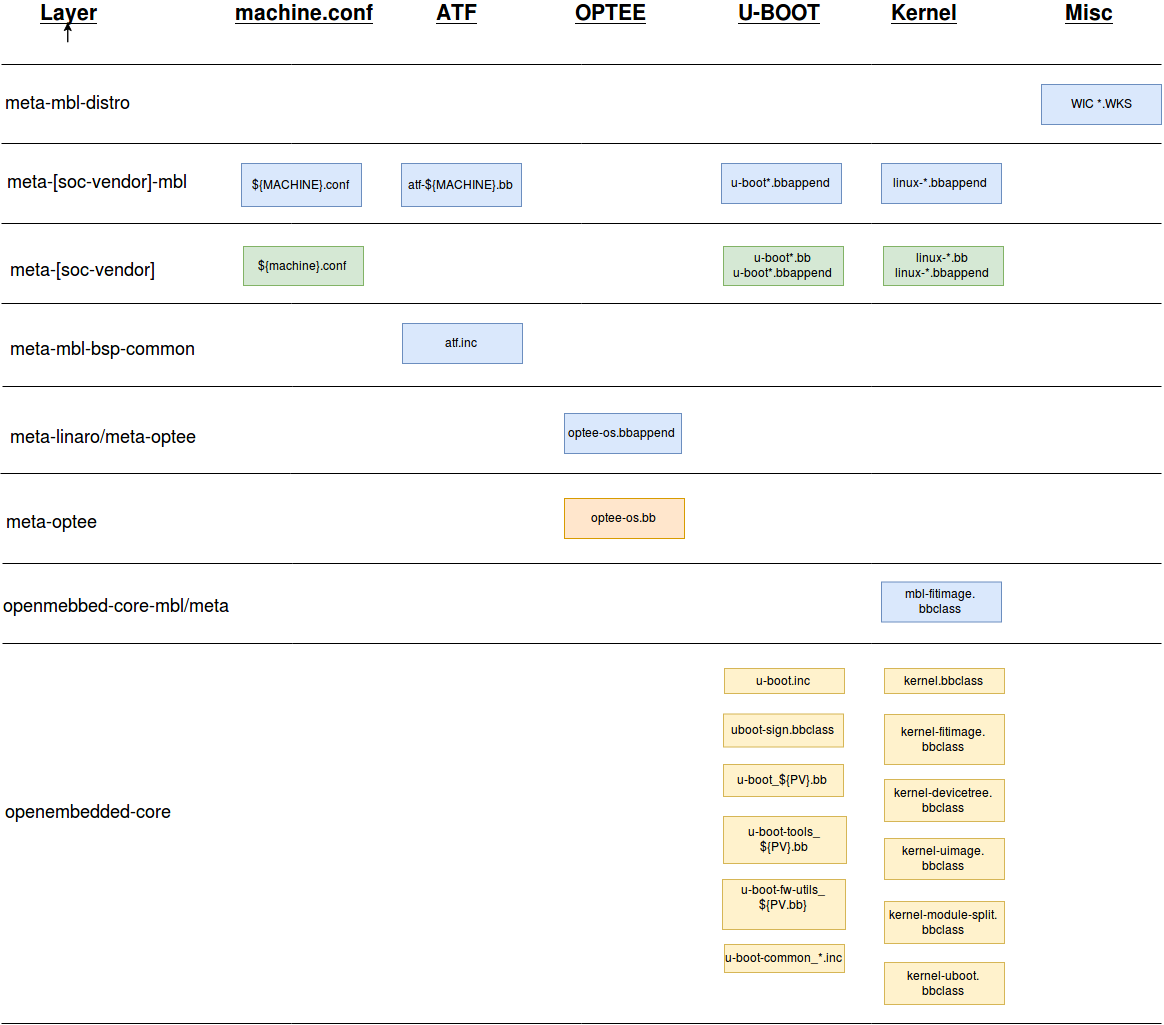
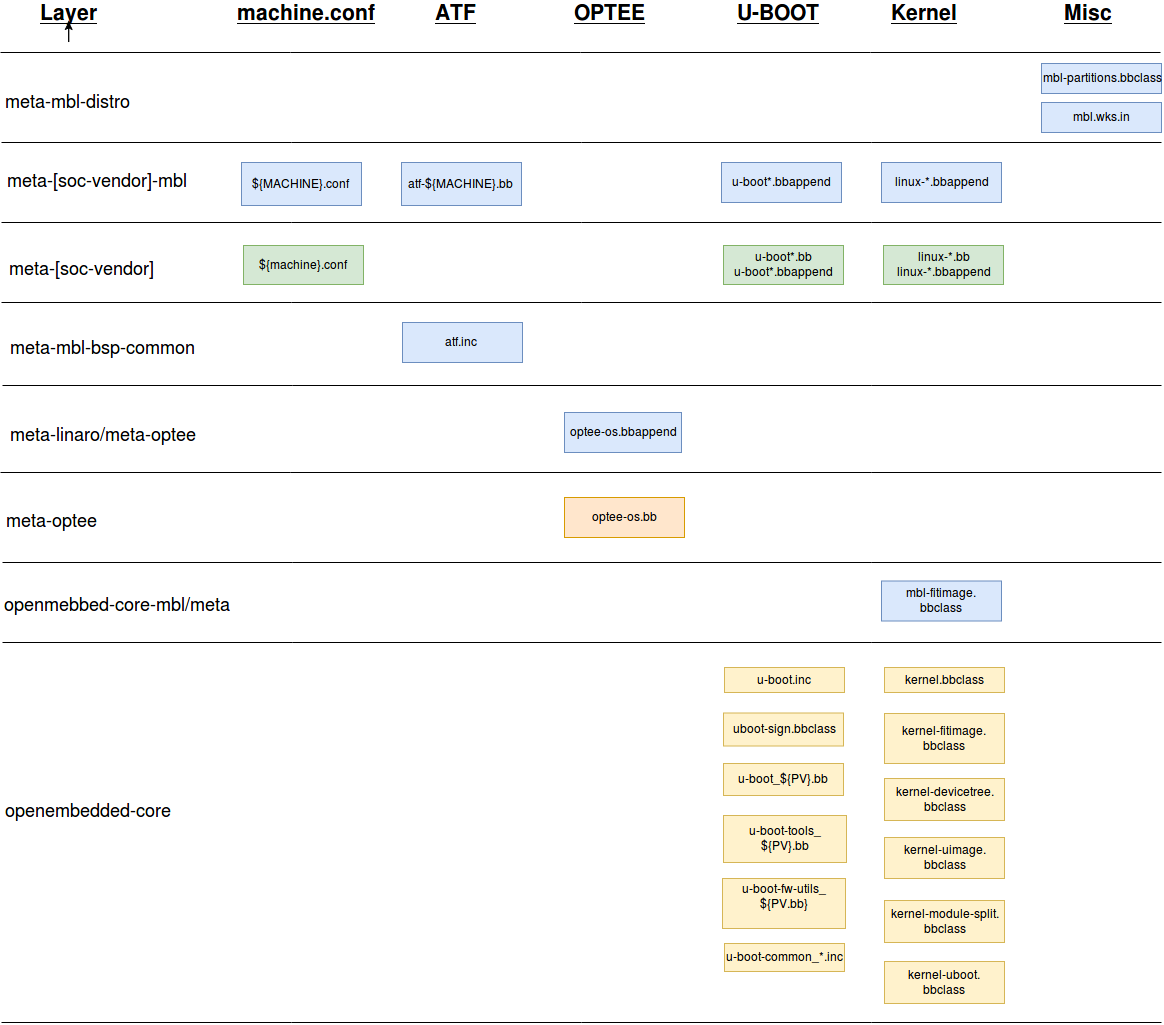
Update for partitioning/wks changes
Update docs for the following code changes:
* dm-verity code and partitions have been removed and we no longer plan
  to use it.
* We now have a single parameterized mbl.wks.in file rather than
  separate .wks files for each MACHINE.
* We have a class "mbl-partitions.bbclass" to process parameters used in
  the .wks file.
* We have added space in the partition table for a second bank of the
* BL3 FIP image.

Additionally:
* Partition_layout.md seemed confused about which parts were a
  description of current systems and which parts were about future
  plans. Attempt to clarify.
* Remove unused images from Porting/assets
* Remove duplication of information about partitions in
  bsp-porting-build.md.

diff --git a/Docs/refs/partition_layout.md b/Docs/refs/partition_layout.md
@@ -1,8 +1,103 @@
 # Partition layout
 
-## Design
+## General information
 
-The flash memory partition layout for MBL is driven by four high-level requirements:
+MBL images contain two types of "partition":
+1. Normal file system partitions that have entries in the partition table.
+2. "Raw" partitions that don't have file systems and don't have entries in the
+   partition table. A raw partition is used when it needs to be accessible to
+   an early bootloader that does not have file system drivers.
+
+The partition layout for every board includes at least the following partitions:
+
+| Label              | ro/rw | Type | Mount point      | Default Size | Contains |
+|--------------------|-------|------|------------------|--------------|----------|
+| boot               | ro    | vfat | /boot            | 48MiB        | Kernel, device tree and U-Boot boot script |
+| bootflags          | rw    | ext4 | /mnt/flags       | 20MiB        | Flags to determine which rootfs is active |
+| rootfs1            | rw    | ext4 | /                | 500MiB       | Root filesystem bank 1 |
+| rootfs2            | rw    | ext4 | /                | 500MiB       | Root filesystem bank 2 |
+| factory\_config    | rw    | ext4 | /config/factory  | 20MiB        | Factory configuration |
+| nfactory\_config1  | rw    | ext4 | /config/user     | 20MiB        | Non-factory config 1; user data configuration |
+| nfactory\_config2  | rw    | ext4 | /config/user     | 20MiB        | Unused at this time |
+| log                | rw    | ext4 | /var/log         | 128MiB       | Log files |
+| scratch            | rw    | ext4 | /scratch         | 500MiB       | Temporary files (such as downloaded firmware files) |
+| home               | rw    | ext4 | /home            | 450MiB       | User application storage |
+
+Images also contain partitions for bootloaders, but the details are board specific.
+
+Note that this partition layout does not match our future plans and will be changed in a future release.
+
+## Board specific information
+
+### Raspberry Pi 3
+
+Full partition layout:
+
+| Label/Name        | Size   | U-Boot iface dev:part | Linux device file | Notes    |
+|-------------------|--------|-----------------------|-------------------|----------|
+| BL3 FIP Image (1) | 4MiB   | -                     | -                 | Raw; FIP image containing TF-A BL3, OP-TEE and U-Boot |
+| BL3 FIP Image (2) | 4MiB   | -                     | -                 | Raw; unused at this time |
+| boot              | 48MiB  | mmc 0:1               | mmcblk0p1         | Primary  |
+| bootflags         | 20MiB  | mmc 0:2               | mmcblk0p2         | Primary  |
+| rootfs1           | 500MiB | mmc 0:3               | mmcblk0p3         | Primary  |
+| -                 | -      | mmc 0:4               | mmcblk0p4         | Extended |
+| rootfs2           | 500MiB | mmc 0:5               | mmcblk0p5         | Logical  |
+| factory\_config   | 20MiB  | mmc 0:6               | mmcblk0p6         | Logical  |
+| nfactory\_config1 | 20MiB  | mmc 0:7               | mmcblk0p7         | Logical  |
+| nfactory\_config2 | 20MiB  | mmc 0:8               | mmcblk0p8         | Logical  |
+| log               | 128MiB | mmc 0:9               | mmcblk0p9         | Logical  |
+| scratch           | 500MiB | mmc 0:10              | mmcblk0p10        | Logical  |
+| home              | 450MiB | mmc 0:11              | mmcblk0p11        | Logical  |
+
+### WaRP7 and PICO-PI with IMX7D
+
+Full partition layout:
+
+| Label/Name        | Size   | U-Boot iface dev:part | Linux device file | Notes       |
+|-------------------|--------|-----------------------|-------------------|-------------|
+| BL2               | 1023KiB| -                     | -                 | Raw; TF-A BL2 |
+| BL3 FIP Image (1) | 1024KiB| -                     | -                 | Raw; FIP image containing TF-A BL3, OP-TEE and U-Boot |
+| BL3 FIP Image (2) | 1024KiB| -                     | -                 | Raw; unused at this time |
+| boot              | 48MiB  | mmc 0:1               | mmcblk0p1         | Primary     |
+| bootflags         | 20MiB  | mmc 0:2               | mmcblk0p2         | Primary     |
+| rootfs1           | 500MiB | mmc 0:3               | mmcblk0p3         | Primary     |
+| -                 | -      | mmc 0:4               | mmcblk0p4         | Extended    |
+| rootfs2           | 500MiB | mmc 0:5               | mmcblk0p5         | Logical     |
+| factory\_config   | 20MiB  | mmc 0:6               | mmcblk0p6         | Logical     |
+| nfactory\_config1 | 20MiB  | mmc 0:7               | mmcblk0p7         | Logical     |
+| nfactory\_config2 | 20MiB  | mmc 0:8               | mmcblk0p8         | Logical     |
+| log               | 128MiB | mmc 0:9               | mmcblk0p9         | Logical     |
+| scratch           | 500MiB | mmc 0:10              | mmcblk0p10        | Logical     |
+| home              | 450MiB | mmc 0:11              | mmcblk0p11        | Logical     |
+
+### NXP 8M Mini EVK
+
+Full partition layout:
+
+| Label/Name        | Size   | U-Boot iface dev:part | Linux device file | Notes       |
+|-------------------|--------|-----------------------|-------------------|-------------|
+| Bootloaders       | 1024KiB| -                     | -                 | Raw; TF-A BL2, TF-A BL3, OP-TEE and U-Boot |
+| boot              | 48MiB  | mmc 0:1               | mmcblk1p1         | Primary     |
+| bootflags         | 20MiB  | mmc 0:2               | mmcblk1p2         | Primary     |
+| rootfs1           | 500MiB | mmc 0:3               | mmcblk1p3         | Primary     |
+| -                 | -      | mmc 0:4               | mmcblk1p4         | Extended    |
+| rootfs2           | 500MiB | mmc 0:5               | mmcblk1p5         | Logical     |
+| factory\_config   | 20MiB  | mmc 0:6               | mmcblk1p6         | Logical     |
+| nfactory\_config1 | 20MiB  | mmc 0:7               | mmcblk1p7         | Logical     |
+| nfactory\_config2 | 20MiB  | mmc 0:8               | mmcblk1p8         | Logical     |
+| log               | 128MiB | mmc 0:9               | mmcblk1p9         | Logical     |
+| scratch           | 500MiB | mmc 0:10              | mmcblk1p10        | Logical     |
+| home              | 450MiB | mmc 0:11              | mmcblk1p11        | Logical     |
+
+## Notes on firmware update
+
+To support firmware updates, MBL has storage for two separate root file systems and a mechanism to select which root file system to boot into after reboots.
+
+A script inside the `initramfs` checks which root partition is currently active; by default this is `rootfs1`, but the script will change to `rootfs2` if a flag file called `rootfs2` is present in the `bootflags` partition.
+
+## Future plans
+
+The plan for the flash memory partition layout for MBL is driven by four high-level requirements:
 
 * Use cases for device firmware update.
 * Use cases for application management.
@@ -14,95 +109,12 @@ In summary, requirements that influence the flash layout are:
 | Requirement | Implication |
 | --- | --- |
 | It should be possible to update all device firmware except for early stage boot loaders. | Components that are loaded during boot need to start at a block number known by the loading boot loader. |
-| A failure during the update process (such as a power loss) should not result in a bricked device.	| The previous known good version of a booted component should be maintained in flash until an updated version has been verified to be complete, authentic and viable. This means that all booted components should be banked to accommodate both the known good and the updated versions of a component. |
+| A failure during the update process (such as a power loss) should not result in a bricked device.	| The previous known good version of a booted component should be maintained in flash until an updated version has been verified to be complete, authentic and viable. This means that all booted components should be banked to accommodate both the known good and the updated versions of a component. Writes to one bank of a component should not affect the other bank, and writes to any component should not affect any other components. Due to the nature of flash storage, this means that components should not share flash erase blocks with other components or other banks of the same component.|
+| A multi-component update should either be applied in its entirety or not at all. A device should never be left in a state where only a partial update was performed. | Non-volatile state must be held that reflects the state that a multi-component update is in progress but is not yet complete. |
 | A firmware update involving multiple components may extend across power failures. |	Non-volatile state must be held reflecting the presence of a component update. Only when all components are installed can the entire update be viewed as complete. |
 | A multi-component update should be applied either in its entirety or not at all. A device should never be left in a state where only a partial update was performed. | A non-volatile state must be held, reflecting that a multi-component update is in progress but is not yet complete. |
 | Data saved in flash memory that does not need to be modified in normal device operation should be write-protected. |	Some partitions should be created or modified to be read-only. Factory data written during the manufacturing process should be saved in a partition that is modified to read-only when a device boots after its life-cycle state has been modified to 'manufacture complete'. |
 | A device should support the 'restore to factory' use case. | To allow the user configuration to be deleted without deleting the factory configuration, the two types of data should be kept separate. |
 
-## General information
-
-<span class="images">![](https://s3-us-west-2.amazonaws.com/mbed-linux-os-docs-images/partition_layout.png)</span>
-
-The partition layout for every board includes at least the following partitions:
-
-| Label            | ro/rw | Type         | Mount point      | Size     | Contains |
-|------------------|-------|--------------|------------------|----------|----------|
-| boot             | ro    | vfat or ext4 | /boot            | 30MiB    | Kernel, device tree and U-Boot boot script |
-| bootflags        | rw    | ext4         | /mnt/flags       | 20MiB    | Flags to determine which rootfs is active |
-| rootfs1          | rw    | ext4         | /                | 500MiB   | Root filesystem for installation 1 |
-| rootfs2          | rw    | ext4         | /                | 500MiB   | Root filesystem for installation 2 |
-| factory_config   | rw    | ext4         | /config/factory  | 20MiB    | Factory configuration |
-| nfactory_config1 | rw    | ext4         | /config/user     | 20MiB    | Non-factory config 1; user data configuration (listed in the diagram as "Config 1") |
-| nfactory_config2 | rw    | ext4         | /config/user     | 20MiB    | Unused at this time |
-| rootfs1_ver_hash | rw    | ext4         | /mnt/verity_hash | 20MiB    | dm_verity meta-data for rootfs1 |
-| rootfs2_ver_hash | rw    | ext4         | /mnt/verity_hash | 20MiB    | dm_verity meta-data for rootfs2 |
-| log              | rw    | ext4         | /var/log         | 20MiB    | Log files |
-| scratch          | rw    | ext4         | /scratch         | 500MiB   | Temporary files (such as downloaded firmware files) |
-| home             | rw    | ext4         | /home            | 450MiB   | User application storage |
-
-## Board specific information
-
-### Raspberry Pi 3
-
-Full partition layout:
-
-| Label            | Size   | U-Boot iface dev:part | Linux device file | Notes    |
-|------------------|--------|-----------------------|-------------------|----------|
-| boot             | 30MiB  | mmc 0:1               | mmcblk0p1         | Primary  |
-| bootflags        | 20MiB  | mmc 0:2               | mmcblk0p2         | Primary  |
-| rootfs1          | 500MiB | mmc 0:3               | mmcblk0p3         | Primary  |
-| -                | -      | mmc 0:4               | mmcblk0p4         | Extended |
-| rootfs2          | 500MiB | mmc 0:5               | mmcblk0p5         | Logical  |
-| factory_config   | 20MiB  | mmc 0:6               | mmcblk0p6         | Logical  |
-| nfactory_config1 | 20MiB  | mmc 0:7               | mmcblk0p7         | Logical  |
-| nfactory_config2 | 20MiB  | mmc 0:8               | mmcblk0p8         | Logical  |
-| log              | 20MiB  | mmc 0:9               | mmcblk0p9         | Logical  |
-| scratch          | 500MiB | mmc 0:10              | mmcblk0p10        | Logical  |
-| rootfs1_ver_hash | 20MiB  | mmc 0:11              | mmcblk0p11        | Logical  |
-| rootfs2_ver_hash | 20MiB  | mmc 0:12              | mmcblk0p12        | Logical  |
-| home             | 450MiB | mmc 0:13              | mmcblk0p13        | Logical  |
-
-### WaRP7
-
-WaRP7 uses an area of the disk for Trusted Firmware-A (TF-A) and Second Boot Loader (BL2) images. It is the first partition although it is not in the disk's partition table.
-
-Full partition layout:
-
-| Label            | Size   | U-Boot iface dev:part | Linux device file | Notes       |
-|------------------|--------|-----------------------|-------------------|-------------|
-| -                | 4MiB   | -                     | -                 | TF-A and BL2 |
-| boot             | 32MiB  | mmc 0:1               | mmcblk0p1         | Primary     |
-| bootflags        | 20MiB  | mmc 0:2               | mmcblk0p2         | Primary     |
-| rootfs1          | 500MiB | mmc 0:3               | mmcblk0p3         | Primary     |
-| -                | -      | mmc 0:4               | mmcblk0p4         | Extended    |
-| rootfs2          | 500MiB | mmc 0:5               | mmcblk0p5         | Logical     |
-| factory_config   | 20MiB  | mmc 0:6               | mmcblk0p6         | Logical     |
-| nfactory_config1 | 20MiB  | mmc 0:7               | mmcblk0p7         | Logical     |
-| nfactory_config2 | 20MiB  | mmc 0:8               | mmcblk0p8         | Logical     |
-| log              | 20MiB  | mmc 0:9               | mmcblk0p9         | Logical     |
-| scratch          | 500MiB | mmc 0:10              | mmcblk0p10        | Logical     |
-| rootfs1_ver_hash | 20MiB  | mmc 0:11              | mmcblk0p11        | Logical     |
-| rootfs2_ver_hash | 20MiB  | mmc 0:12              | mmcblk0p12        | Logical     |
-| home             | 450MiB | mmc 0:13              | mmcblk0p13        | Logical     |
-
-
-## Notes on firmware update
-
-Each firmware installation has several partitions: a read-write root partition, a configuration partition, and a user application(s) partition. Using a separate partition for the user application eases the support of updates of just the user application.
-
-To support firmware updates, MBL has storage for two separate firmware installations and a mechanism to select which installation to
-boot into after reboots.
-
-A script inside `initramfs` checks which root partition is currently active; by default this is `rootfs1`, but the script will change to `rootfs2` if a flag file called `rootfs2` is present in the `bootflags` partition.
-
-For a configuration that should persist across firmware updates, MBL will - in a future release - store three versions: a configuration for each firmware installation (stored on the installation's `nfactory_config1` or `nfactory_config2` partitions) and the initial configuration installed at build time or in the factory (stored on the `factory_config` partition). During firmware updates, the configuration for the newly installed firmware will be created based on the configuration for the currently running installation, rules contained in a **configuration update** script attached to the new firmware and, possibly, the initial factory configuration.
-
-Additionally, there is the `scratch` partition for temporary storage of firmware downloaded during the update process. This partition is shared between the firmware installations.
-
-## Plans
-
-* A new `BL3 FIP Image` partition should hold versions of the BL31 boot loader and associated components contained within a signed FIP image.
-* The `rootfs_ver_hash` partitions should include meta-data for the dm-verity tool for the corresponding root filesystem.  
-* The `rootfs_ver_hash`, `factory_config` and `rootfs` partitions should be switched to read-only mode (currently they are read-write).
-* The new `BL3 FIP Image` and the existing `boot`, `rootfs1_ver_hash` and `nfactory_config1` partitions should be banked.
+The planned layout is shown in the following diagram.
+<span class="images">![](../Figures/partition_layout.png)</span>

diff --git a/Docs/Porting/bsp-porting-guide.md b/Docs/Porting/bsp-porting-guide.md
@@ -193,7 +193,7 @@ See the [Basic Signing Flow document][basic-signing-flow] for a more detailed de
 
 <span class="images">![fig2-3](assets/Image_signing_flow.png "Figure 2.3")<span>**Figure 2.3:** partitioning of software components.</span></span>
 
-[Figure 2.3](#fig2-3) shows the factoring of software components into five binary images:
+[Figure 2.3](#fig2-3) shows the factoring of software components into four binary images:
 
 1. **SoC Compatible Image:** This image contains the TF-A generated BL2 and the ROTPK, and is signed.
 1. **FIP Image:** This image is the TF-A fiptool-generated FIP image, and contains many [TBBR-CLIENT-defined key and content certificates](#ref-tbbr-client), as well as the BL3x bootchain components.
@@ -215,47 +215,14 @@ See the [Basic Signing Flow document][basic-signing-flow] for a more detailed de
     1. Linux kernel device tree.
     1. `boot.scr`. This is a compiled version of the U-Boot boot script.
     1. The initramfs image.
-    1. [The Verity public key.][android-verified-boot]
     1. A configuration block.
 1. **Rootfs Partition:** This image contains the root filesystem.
-1. **Rootfs_hash Partition:** This image contains the Verity hash tree.
 
 For more information, please refer to the [Trusted Board Boot Requirements CLIENT document](#ref-tbbr-client).
 
 ## <a name="section-2-4"></a> 2.4 Flash partition layout
-
-<a name="fig2-4"></a>
-
-<span class="images">![fig2-4](assets/flash_partition_layout.png "Figure 2.4")<span>**Figure 2.4:** The flash partition layout to support update has 2 banks of images.</span></span>
-
-[Figure 2.4](#fig2-4) shows the flash partition layout, and the function of each partition is described in the table below.
-
-| Partition | Usage |
-| --- | --- |
-| Bank/Update state | This is a raw partition that is accessible by all bootloaders and the normal device firmware. It holds the non-volatile state that reflects the active bank and whether an update is in progress. It is important that updates to state are robust to power failure. |
-| BL2 | This is a raw partition that holds the TF-A BL2 bootloader. BL2 cannot be updated using the normal firmware update process. |
-| BL3 FIP Image 1 & 2 | Two partitions to hold two versions of the BL31 boot loader and associated components contained within a signed FIP image. |
-| Boot FIT Image 1 & 2 | Two partitions to hold two versions of the boot partition. Contains the Linux kernel and device tree. |
-| Rootfs 1 & 2 | Two partitions for the read-only rootfs and the associated dm-verity hash tree. |
-| Rootfs_Hash 1 & 2 | Partitions for the dm-verity hash trees corresponding to rootfs 1 & 2. |
-| Config 1 & 2 | Non-volatile configuration data is saved to the active config partition. Two partitions are used, to allow an update to modify configuration data while maintaining a fallback to the old data if an update fails. In most cases, configuration data is just copied between banks during an update. |
-| Factory Config | A single partition for configuration data written during the manufacturing process. When manufacturing is complete, the partition is modified to being read-only. |
-| Log | A single partition for log files. |
-| Scratch | `/scratch` directory mounted to this partition. Used for saving potentially large temporary files such as downloaded firmware files. Note that `/tmp` is used in a similar manner, but is mapped to the RAM file system where there is less file storage available. |
-| Home | `/home` directory mounted to this partition. Used for user space application storage. |
-
-
-**Table 2.4: Flash partition functional description.**
-
-The flash partitions for the following software components are banked (there are two instances present in the system):
-
-- BL3 FIP Image.
-- Boot FIT Image.
-- Rootfs.
-- Rootfs_Hash.
-- Config.
-
-The flash partitions are banked to support the update service: One partition is the active (running partition), while the other is the inactive (non-running) partition. An update writes a new image to the inactive partition, then changes the bank/update state to bring the new image into service (the inactive bank becomes active, and the active bank becomes inactive).
+See our [Partition Layout](../refs/partition_layout.md) document for information about partition layouts.
+<!-- TODO: Update link to partition_layout.md -->
 
 # <a name="section-3-0"></a> 3.0 Overview of MBL Yocto meta-layers
 
@@ -382,7 +349,7 @@ For the community layer `meta-raspberrypi`, the `meta-mbl` repository contains t
 | meta-linaro-mbl/meta-optee                | BSP       | MBL       | MBL staging layer for `meta-optee` customizations or related meta-data. |
 | meta-mbl-apps                             | General   | MBL       | MBL applications such as `mbl-cloud-client`. |
 | meta-mbl-bsp-common                       | BSP       | MBL       | MBL layer for BSP meta-data commonly used by more than one target BSP. |
-| meta-mbl-distro                           | Distro    | MBL       | MBL distribution layer including image recipes containing `mbl.conf`, `mbl-image*.bb` recipes and `*.wks` files. |
+| meta-mbl-distro                           | Distro    | MBL       | MBL distribution layer containing `mbl.conf`, `mbl-image*.bb` recipes, `mbl-partitions.bbclass` and `mbl.wks.in`. |
 | meta-networking                           | General   | Community | Networking subsystems meta-layer. |
 | meta-oe                                   | General   | Community | Open Embedded layer for distribution tools and applications. |
 | meta-python                               | General   | Community | Layer to build the Python runtime for the target. |
@@ -492,7 +459,9 @@ The MBL development workspace is composed of the Yocto layers related to BSP dev
 
 Each layer is shown horizontally, containing a number of recipe packages and configuration files. Beginning with the top layer and working downwards:
 
-- **`meta-mbl-distro`**. The distribution layer provides the WIC kickstart image layout files `${MACHINE}.wks`.
+- **`meta-mbl-distro`**. The distribution layer provides:
+    - The parameterized WIC kickstart image layout file `mbl.wks.in`.
+    - `mbl-partitions.bbclass`, a class to process the parameters used in `mbl.wks.in`.
 - **`meta-[soc-vendor]-mbl`**. The MBL staging layer provides:
     - The BSP customization for specific target platforms by defining `${MACHINE}.conf` files.
     - The MBL `u-boot*.bbappend` customization recipes to build U-Boot.
@@ -523,7 +492,7 @@ Each layer is shown horizontally, containing a number of recipe packages and con
       The recipe can build either host or target binaries:
 
     - `u-boot-common_${PV}.inc`. This `include` file contains common symbol definitions used by multiple `u-boot*` recipes. It is included in the `u-boot_${PV}.bb` recipe.
-    - `kernel-fitimge.bbclass`. See [Section 7.4](../develop-mbl/7-0-linux.html#7-4-kernel-fitimage-bbclass-and-mbl-fitimage-bbclass) for details.
+    - `kernel-fitimage.bbclass`. See [Section 7.4](../develop-mbl/7-0-linux.html#7-4-kernel-fitimage-bbclass-and-mbl-fitimage-bbclass) for details.
     - `kernel-devicetree.bbclass`. See [Section 7.3](../develop-mbl/7-0-linux.html#7-3-kernel-bbclass-openembedded-core-support) for details.
     - `kernel-uimage.bbclass`. See [Section 7.3](../develop-mbl/7-0-linux.html#7-3-kernel-bbclass-openembedded-core-support) for details.
     - `kernel-module-split.bbclass`. See [Section 7.3](../develop-mbl/7-0-linux.html#7-3-kernel-bbclass-openembedded-core-support) for details.
@@ -571,8 +540,7 @@ The key symbols modified in `${MACHINE}.conf` are as follows:
 - `UBOOT_ENTRYPOINT = "0xabcdefab"`. This symbol specifies the U-Boot entry point called by OP-TEE, for example.
 - `UBOOT_DTB_LOADADDRESS = "0xabcdefab"`. This symbol specifies the memory address where the U-Boot DTB is loaded into memory.
 - `UBOOT_SIGN_ENABLE = "1"`. This symbol enables FIT image signing of subcomponents by `u-boot-mkimage`.
-- `WKS_FILE = "${MACHINE}.wks"`. This symbol specifies the WIC kickstart file defining the target partition layout.
-   See "Creating Partitioned Images Using Wic" in [Yocto Mega Manual][yocto-mega-manual-latest] and [Section 2.4](../develop-mbl/2-0-system-architecture.html#2-4-flash-partition-layout) for more details.
+- `MBL_WKS_BOOTLOADERxxx = "xxx"`. These symbols are used to set the offsets, sizes and filenames of bootloaders used in `mbl.wks.in`. See `meta-mbl/meta-mbl-distro/classes/mbl-partitions.bbclass` for details.
 
 [Section 2.3 Partitioning software components into FIP/FIT image](../develop-mbl/2-0-system-architecture.html#2-3-partitioning-software-components-into-fip-fit-images) specifies that the Linux kernel image is packaged into a FIT image so the kernel FIT image can be written to a [dedicated partition](../develop-mbl/2-0-system-architecture.html#2-4-flash-partition-layout) and independently updated. FIT image generation is achieved using the `linux*`, `kernel.bbclass`, `mbl-fitimage.bbclass` and `kernel-fitimage.bbclass` entities shown in [Figure 4.0](../develop-mbl/4-0-bsp-recipe-relationships.html),
 and by setting the symbols `KERNEL_CLASSES` and `KERNEL_IMAGETYPE`. See [Section 7.3](../develop-mbl/7-0-linux.html#7-3-kernel-bbclass-openembedded-core-support) and [Section 7.4](../develop-mbl/7-0-linux.html#7-4-kernel-fitimage-bbclass-and-mbl-fitimage-bbclass) for more details.
@@ -870,6 +838,13 @@ This section will discuss the `meta-freescale` and `meta-freescale-3rdparty` ent
     - `UBOOT_DTB_LOADADDRESS = "0x83000000"`. This is the location where the U-Boot DTD is loaded into memory.
     - `UBOOT_IMAGE = "mbl-u-boot.bin"` This is the name of the U-Boot image.
     - `UBOOT_SIGN_ENABLE = "1"`. This enables verified boot signing.
+    - `MBL_WKS_BOOTLOADER1_FILENAME = "bl2.bin.imx"`. This sets the file that WIC uses to populate the BL2 section of the flash partition layout.
+    - `MBL_WKS_BOOTLOADER1_OFFSET_BANK1_KiB = "1"`. This sets the offset of the BL2 section of the flash partition layout.
+    - `MBL_WKS_BOOTLOADER1_SIZE_KiB = "1023"`. This sets the size allocated for the BL2 section of the flash partition layout.
+    - `MBL_WKS_BOOTLOADER2_OFFSET_BANK1_KiB = "1024"`. This sets the offset of the first BL3 FIP bank in the flash partition layout.
+    - `MBL_WKS_BOOTLOADER2_ALIGN_KiB = "1024"`. This sets the alignment used for the BL3 FIP banks in the flash partition layout.
+    - `MBL_WKS_BOOTLOADER2_SIZE_KiB = "1024"`. This sets the size allocated for each BL3 FIP bank in the flash partition layout.
+    - `MBL_FLASH_ERASE_BLOCK_SIZE_KiB = "6144"`. This is used to determine the default alignment of partitions in the flash partition layout.
 - **`imx7s-warp.conf`**. This is the `meta-[soc-vendor]=meta-freescale-3rdparty` machine configuration file that provides the base BSP support for the NXP Warp7 target.
 - **`imx-base.inc`<a name="soc-family-inc-imxbase.inc"></a>**. This is an example of the `[soc-family].inc` file and gives the virtual provider definitions:
     - `PREFERRED_PROVIDER_virtual/bootloader="u-boot-fslc"`.
@@ -899,7 +874,7 @@ MACHINE=imx7s-warp-mbl
       KERNEL_CLASSES  = "mbl-fitimage"                                                                (3)
       KERNEL_IMAGETYPE = "fitImage"
       UBOOT_XXX config                                                                                (4)
-      WKS_XXX config                                                                                  (5)
+      MBL_WKS_BOOTLOADERxxx config                                                                   (5)
       IMAGE_BOOT_FILES config
       PREFERRED_PROVIDER_virtual/atf = "atf-${MACHINE}"                                               (6)
       |   \-> atf-imx7s-warp-mbl.bb
@@ -952,7 +927,7 @@ MACHINE=imx7s-warp-mbl
 - **(3)**. See (19).
 - **(4)**. The UBOOT_XXX symbols control U-Boot image generation, and the signing of FIT image
     components by the uboot-mkimage tool.
-- **(5)**. This specifies the WIC WKS kickstart file for the flash partition geometry.
+- **(5)**. This specifies bootloader offsets and sizes used to determine the flash partition geometry.
 - **(6)**. This specifies `atf-imx7s-warp-mbl.bb` is to be used as the `virtual/atf` provider.
 - **(7)**. `meta-freescale-3rdparty/conf/machine/imx7s-warp.conf` is the `meta-[soc-vendor] ${machine}.conf` configuration file for `imx7s-warp-mbl`.
 - **(8)**. `use-mainline-bsp` is used to configure `linux-fslc*`. See (15).
@@ -1021,9 +996,8 @@ This section provides a summary of the tasks required to integrate a pre-existin
     - Define `UBOOT_ENTRYPOINT = "0xabcdefab"` as required.
     - Define `UBOOT_DTB_LOADADDRESS = "0xabcdefab"` as required.
     - Define `UBOOT_SIGN_ENABLE = "1"`
-    - Define `WKS_FILE=${MACHINE}.wks`.
+    - Define `MBL_WKS_BOOTLOADERxxx` variables as required.
     - Upstream the `new-target-mbl.conf` machine configuration file to `https://github.com/ARMmbed/meta-mbl`.
-    - Upstream the `new-target-mbl.wks` to `https://github.com/ARMmbed/meta-mbl`.
 
 # <a name="section-11-0"></a> 11.0 References
 

diff --git a/Docs/refs/secure_boot.md b/Docs/refs/secure_boot.md
@@ -34,7 +34,6 @@ This document uses the following terminology:
 
 ### References
 
-* REF1: DM Verity project: [https://gitlab.com/cryptsetup/cryptsetup/wikis/DMVerity](https://gitlab.com/cryptsetup/cryptsetup/wikis/DMVerity)
 * REF2: Trusted Base System Architecture CLIENT2 (TBSA-CLIENT2), Document number: ARM DEN 0021A-6, Copyright ARM Limited 2011-2013
 * REF3: Trusted Board Boot Requirements CLIENT (TBBR-CLIENT), Document number: ARM DEN0006C-1, Copyright ARM Limited 2011-2015
 * REF4: mkimage tool source code: [https://github.com/lentinj/u-boot/blob/master/tools/mkimage.c](https://github.com/lentinj/u-boot/blob/master/tools/mkimage.c)
@@ -55,7 +54,6 @@ This is a summary of the MBL secure boot's requirements and recommendations:
 * Use U-Boot to verify the Linux kernel, device tree and normal world boot script using Verified Boot, as used in Chrome OS.
 * The TEE must be initialized early on in the boot sequence to reduce the probability of its integrity being compromised.
 * Boot time verification can be limited to verifying all steps up to and including the Linux Kernel. Other software components must also be verified, but not necessarily during the boot process; to avoid significantly impacting boot time, software components held in the root file system or other mounted read-only file systems may be verified on-demand (as and when files are accessed).
-* dm-verity (REF1) will be used to check the integrity of the read-only root FS.
 * Only allow development images to run on development devices; it must not be possible to run a development image on a production device.
 
 ## Trusted Firmware
@@ -143,12 +141,6 @@ An IoT device is unlikely to include TPM hardware; it will instead rely on a tru
 
 For all of these, the trusted application must have an application interface through which it can provide and increase counter values.
 
-## Integrity checking with dm-verity
-
-The boot flow described above provides secure verification of all components in the boot chain, up to and including the Linux kernel. It does not verify the read-only root file system or any other mounted file system that may hold executables or configuration data. Checking the integrity of read-only files requires an additional solution: dm-verity.
-
-Verified Boot, used in Chrome OS, relies on integrity checking of read-only block devices, performed before blocks are read. This in turn relies on the dm-verity kernel feature (REF1), which provides transparent checking of block devices. The dm-verity feature scans block devices on demand, and checks that block hashes match the expected hash (generated when the image file was created). If it detects a mismatch, it stops both the kernel and the user space from accessing the block. Use of block level integrity checking requires block-oriented firmware updates of a read-only device to ensure that block content hashes over the whole block device match the expected hashes.
-
 ## Image signing
 
 <!--to do: crosslink to image signing when it's published-->
@@ -163,8 +155,7 @@ The following diagram illustrates how image signing tools sign different boot co
 1. The fiptool that is provided by Trusted Firmware populates the keys into the FIP image for the trusted boot components.
 1. The image is signed using the trusted boot flow RoT key.
 1. mkimage adds the keys for the normal world components to the FIP image, and the components are signed using the keys from the FIP image.
-1. The root file system (rootfs) contains the keys for the IoT applications and TEE applications. rootfs is verified by dm-verity rather than being signed.
-1. A signing tool signs the dm-verity hash tree using the key from the FIT image.
+1. The root file system (rootfs) contains the keys for the IoT applications and TEE applications.
 
 ## Operation on open and closed devices
 
